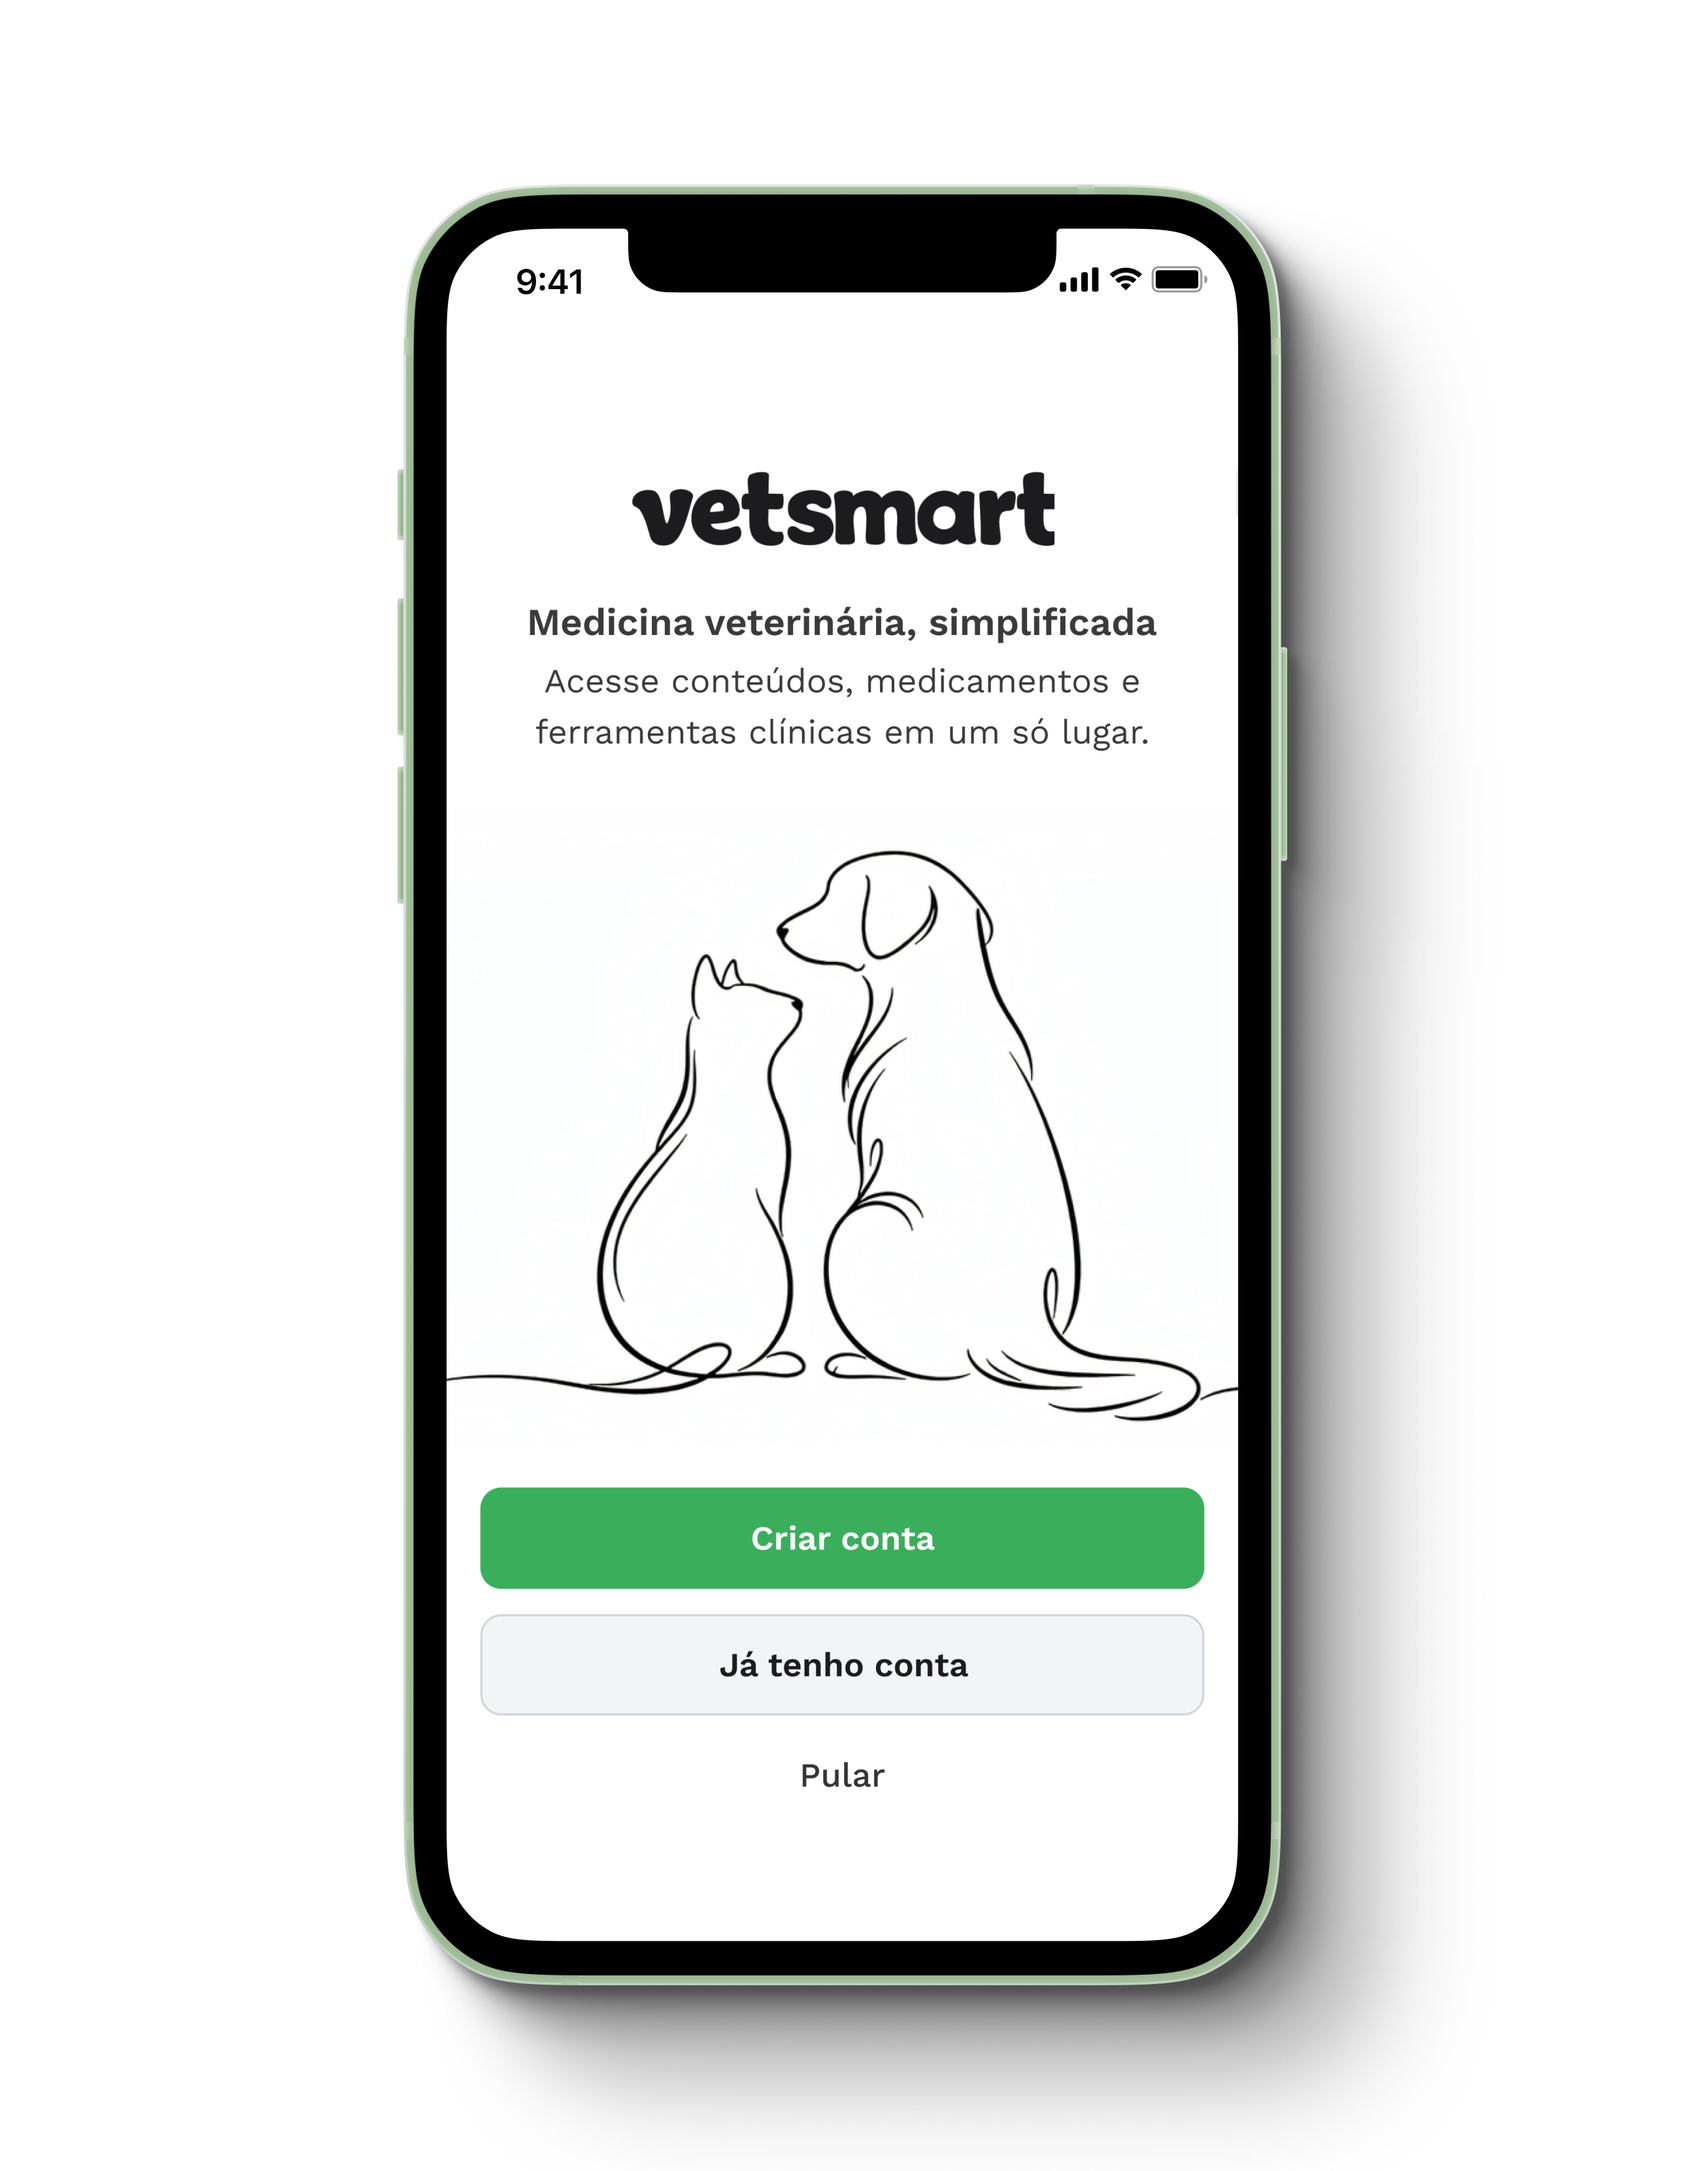
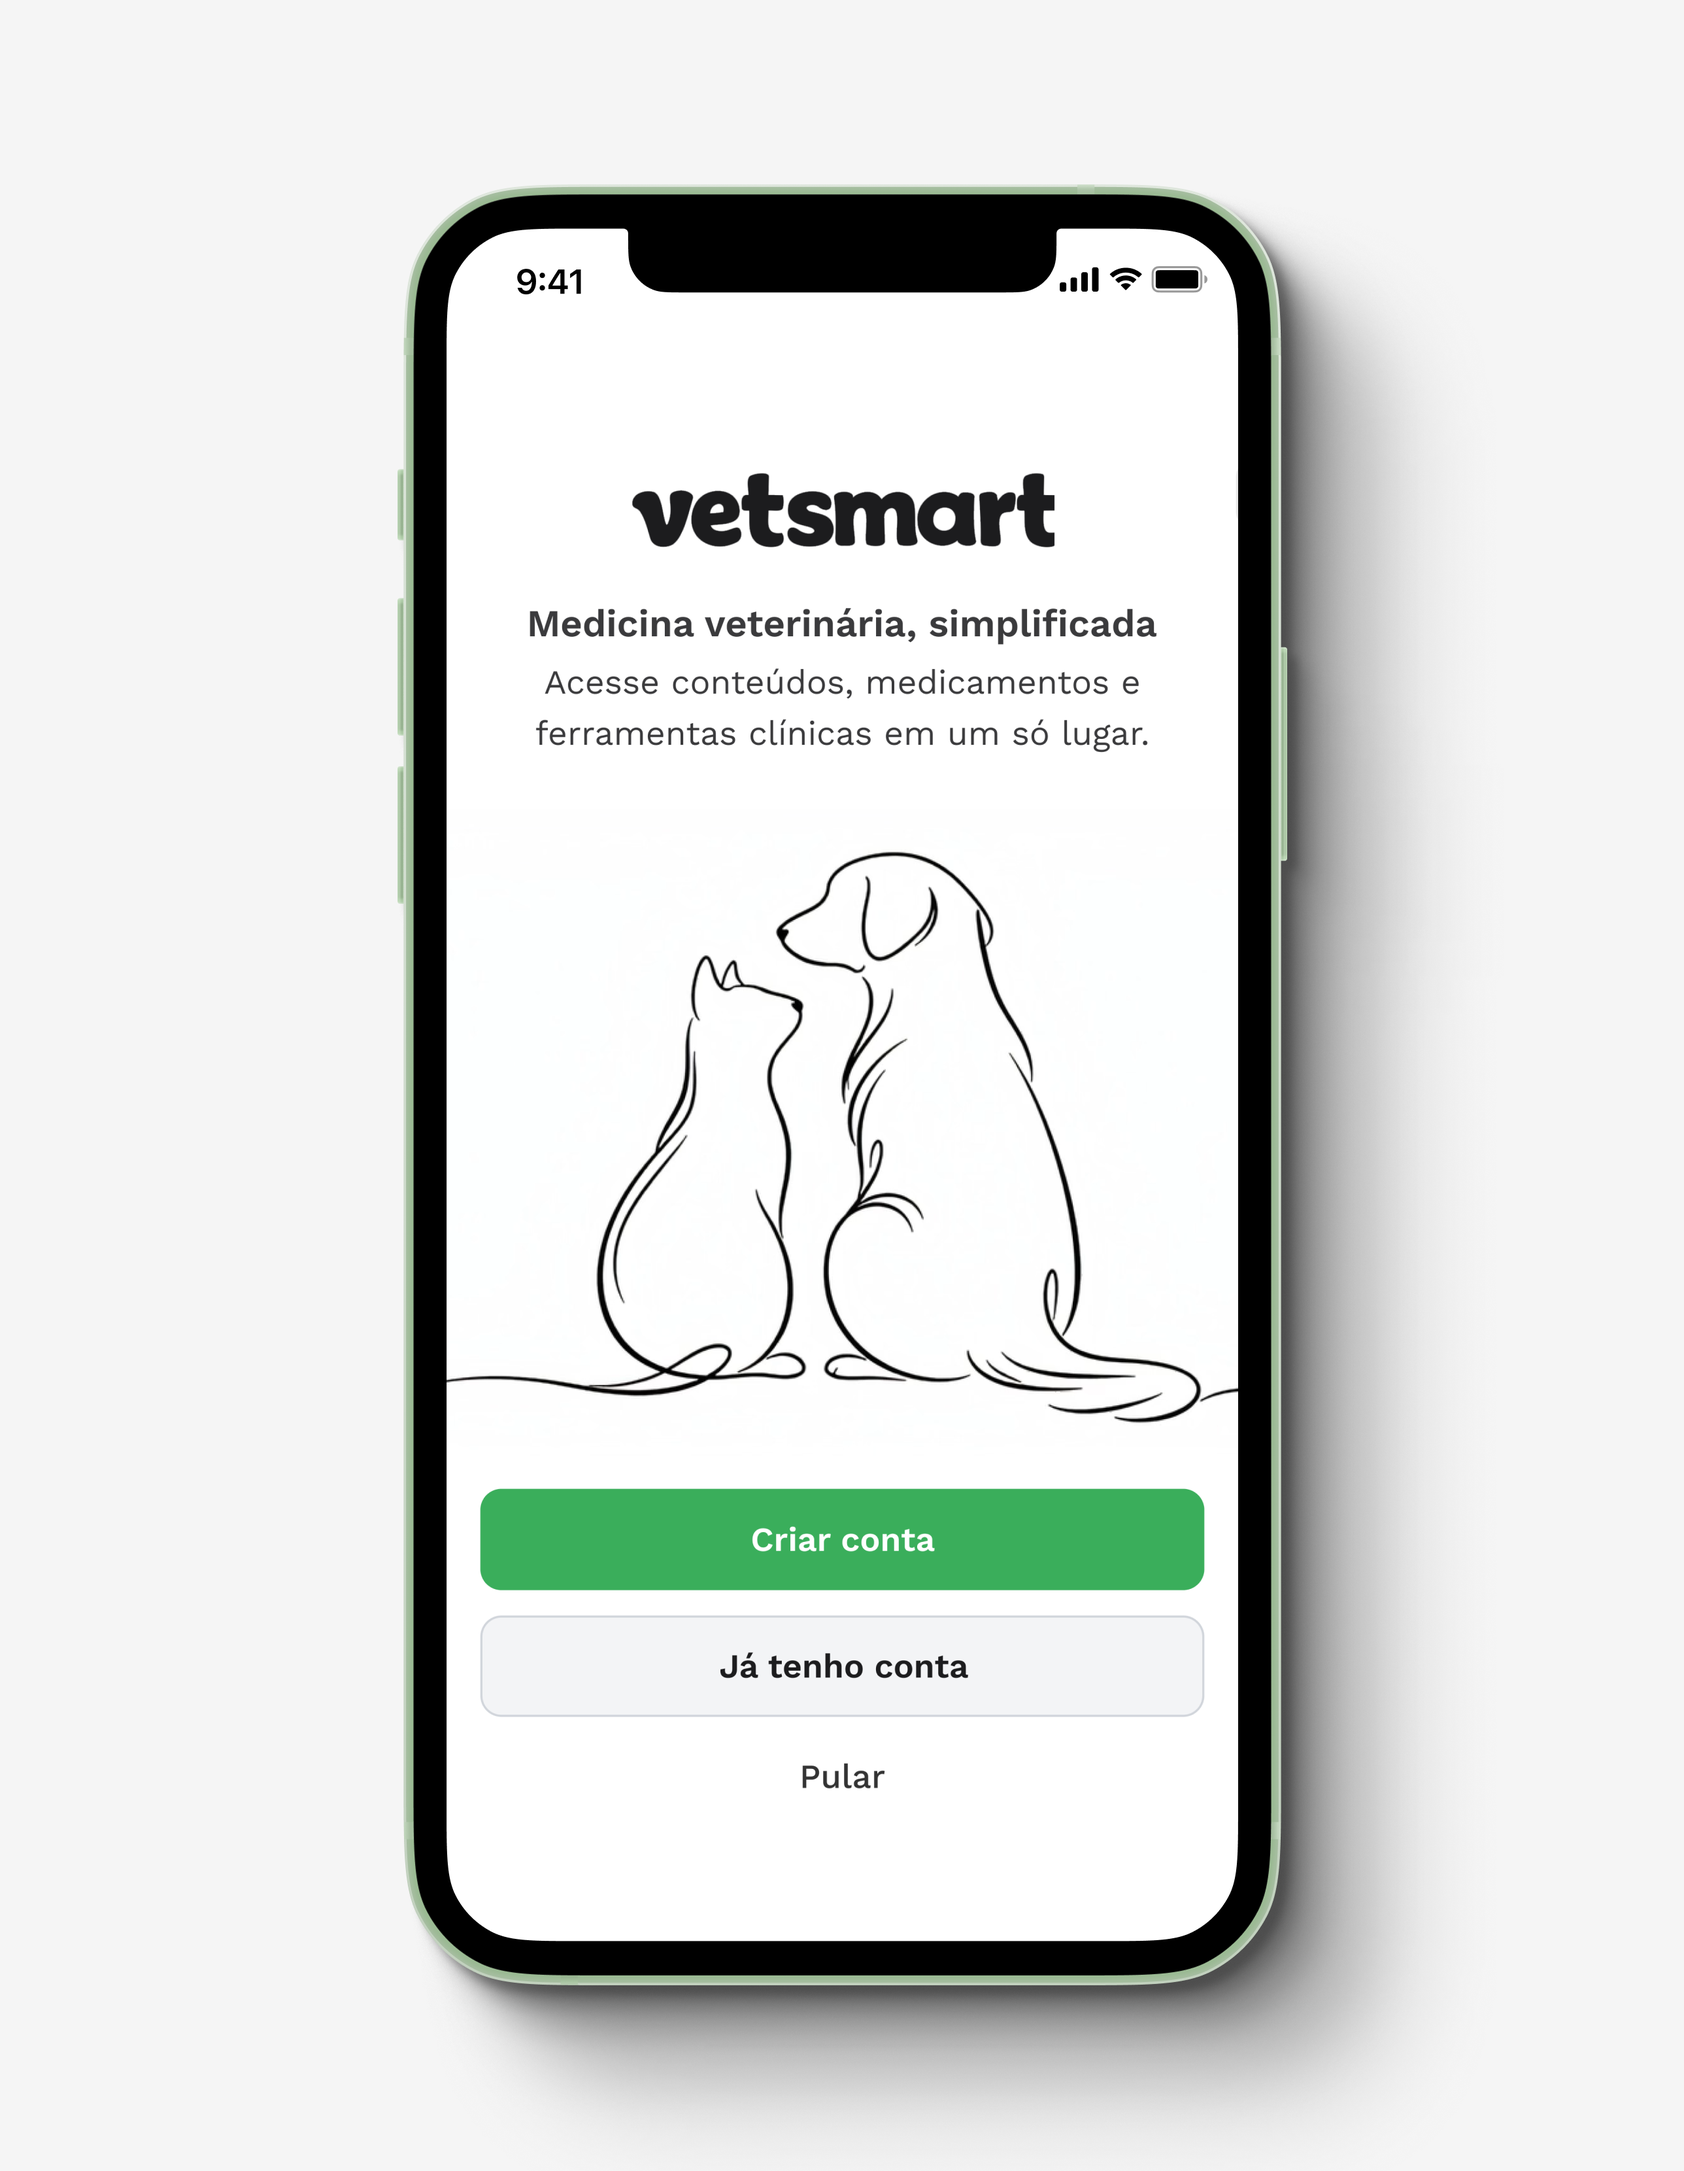
Say it in English the way the case actually reads
The English version still carried a few literal turns from the Portuguese.
"Consult" is the noun for a referral, not the appointment itself, so the vet
works "during an appointment". The dose is worked out "by hand" rather than
with a rule of three, which is not how the calculation is named in English.
Spelling follows the rest of the site: "math", not "maths".

The results graphic was the one piece still stuck in Portuguese on both
languages, because the slot serves a single file. It now carries the English
labels, with the thousands separator and the decimal point in their English
forms, and the active-user figure matching the 70,000 the body copy states.

The splash mockup was the only mobile plate sitting on pure white while every
other one sits on #F5F5F5, so it read as a brighter card than its neighbours.

Drops the rule above the results section: the heading already opens it, and
the line separated it from the alert motion it is the payoff for.

diff --git a/app/vet-smart/page.tsx b/app/vet-smart/page.tsx
@@ -213,7 +213,7 @@ const en: Content = {
     ],
   },
   pain: {
-    heading: "Before Vet Smart, there was a problem during the consult",
+    heading: "Before Vet Smart, there was a problem during the appointment",
     blocks: [
       { p: ["When it came to prescribing, the vet had nowhere to look up ", { h: "drug information", d: 0.2 }, " quickly and easily, such as dosages, indications and interactions."] },
       { p: ["More often than not, they fell back on ", { h: "books or a pile of PDFs", d: 0.4 }, ". Every package insert organized its content differently."] },
@@ -222,34 +222,34 @@ const en: Content = {
   solution: {
     heading: "Our answer was to bring that information into an app the vet could use during the appointment itself",
     blocks: [
-      { p: ["We arrived at that shape after a long discovery. We ran research, interviews and usability sessions, validating a range of hypotheses with vets."] },
+      { p: ["We arrived at that shape after a long discovery process. We ran research, interviews and usability sessions, validating a range of hypotheses with vets."] },
       { p: ["Package inserts presented everything as running text, so I organized the content into ", { h: "fixed sections", d: 0.4 }, " like doses, indications, formats and drug interactions, consistent across every product, ", { h: "more than 4,000 of them.", d: 0.6 }] },
       { p: ["Inside them, I broke the text into modules, a more visual and quicker way to take it in."] },
-      { p: ["", { h: "Search carried a lot of weight in the navigation", d: 0.8 }, ", because it was the most direct route to the drug, and during a consult the vet had no time to hunt around."] },
+      { p: ["", { h: "Search carried a lot of weight in the navigation", d: 0.8 }, ", because it was the most direct route to the drug, and during an appointment the vet had no time to hunt around."] },
     ],
   },
   evolution: {
-    heading: "We had more than 75,000 signed up, out of 130,000 vets in the country",
+    heading: "We had more than 75,000 sign-ups, out of 130,000 vets in the country",
     blocks: [
-      { p: ["The feedback was positive, ", { h: "4.75 on the stores", d: 0.2 }, ". On the business side, we worked with the biggest brands in the market, like Royal Canin, Purina and Zoetis."] },
+      { p: ["The feedback was positive, ", { h: "4.75 in the app stores", d: 0.2 }, ". On the business side, we worked with the biggest brands in the market, like Royal Canin, Purina and Zoetis."] },
     ],
   },
   frequencia: {
     heading: "Despite all of this looking good, when we looked at how people actually used the app we found a problem: they came back very rarely",
     blocks: [
-      { p: ["Of the 75,000 signed up, 35,000 were active. Each of them opened the app an average of ", { h: "five times a month.", d: 0.2 }] },
+      { p: ["Of those 75,000, 35,000 were active. Each of them opened the app an average of ", { h: "five times a month.", d: 0.2 }] },
       { p: ["That metric mattered because our business model depended mostly on advertising inside the app: around ", { h: "70% of our revenue came from selling ads", d: 0.4 }, "."] },
       { p: ["Low frequency meant fewer visits, fewer pageviews and, in turn, fewer ad impressions and less revenue."] },
       { p: ["Without that revenue, we could not grow as a company."] },
     ],
   },
   investigacao: {
-    heading: "With a startup's limited resources, I investigated as broadly as possible before narrowing to specifics",
+    heading: "With a startup's limited resources, I investigated as broadly as possible before narrowing down to specifics",
     blocks: [
       { p: ["I started with a ", { h: "quantitative survey", d: 0.2 }, ", emailed to our whole base. I asked in what situations they used Vet Smart, what kind of content they looked up and what they missed. A pattern came up very consistently: ", { h: "they wanted to keep up professionally", d: 0.4 }, ", with recent studies, protocols and real use cases."] },
       { p: ["Then I went deeper in interviews. Vets told me they relied on courses and in-person events, with fixed dates and a high cost that did not always fit the budget. And what was available was ", { h: "outdated and scattered.", d: 0.6 }] },
-      { p: ["I also looked at the market, veterinary and human health, here and abroad. Almost all of the content was the ", { h: "package insert copied and pasted", d: 0.8 }, ", with no structure behind it."] },
-      { p: ["Last, I looked at how the app was used, in the analytics. ", { h: "Half of all visits were to check a dose", d: 1.0 }, ". At first that looked like confirmation that the area already worked well. It did not look like a problem to explore."] },
+      { p: ["I also looked at the market, veterinary and human health, in Brazil and abroad. Almost all of the content was the ", { h: "package insert copied and pasted", d: 0.8 }, ", with no structure behind it."] },
+      { p: ["Finally, I looked at how the app was used, in the analytics. ", { h: "Half of all visits were to check a dose", d: 1.0 }, ". At first that looked like confirmation that the area already worked well. It did not look like a problem to explore."] },
     ],
   },
   hipotese: {
@@ -268,18 +268,18 @@ const en: Content = {
   esforco: {
     heading: "I had done exactly what they asked for in the surveys and the interviews. And it turned out not to be enough",
     blocks: [
-      { p: ["Even with positive feedback from vets about the content, usage frequency stayed exactly the same: ", { h: "five visits a month, per active user.", d: 0.2 }] },
+      { p: ["Even with positive feedback from vets about the content, usage frequency stayed exactly the same: ", { h: "five visits a month per active user.", d: 0.2 }] },
     ],
   },
   olhos: {
     heading: "So I decided to shadow vets during appointments, to understand more about how they worked day to day and whether there was an opportunity there",
     blocks: [
-      { p: ["One thing caught my attention right away. The vet had to ", { h: "work the drug's dose out from the animal's weight", d: 0.2 }, ", often with a rule of three to convert mg into ml. And they repeated that calculation several times a day."] },
+      { p: ["One thing caught my attention right away. The vet had to ", { h: "work the drug's dose out from the animal's weight", d: 0.2 }, ", by hand. And they repeated that calculation several times a day."] },
       { p: ["Our app already showed the recommended dose, but we did not do that calculation. It was ", { h: "a real pain, and so automatic that no vet had ever raised it.", d: 0.4 }] },
     ],
   },
   calc: {
-    heading: "What if we built a calculator that did the maths for the vet?",
+    heading: "What if we built a calculator that did the math for the vet?",
     blocks: [
       { p: ["The idea was to cut the effort to the bare minimum: they typed the weight, ", { h: "without pressing anything", d: 0.2 }, ", and the dose appeared right there, in mg and ml."] },
     ],
@@ -297,7 +297,7 @@ const en: Content = {
     blocks: [
       {
         ul: [
-          ["Usage frequency: ", { h: "from 5 to 28 visits a month", d: 0.2 }, ", per active user"],
+          ["Usage frequency: ", { h: "from 5 to 28 visits a month", d: 0.2 }, " per active user"],
           ["Active users: ", { h: "from 35,000 to 70,000", d: 0.4 }],
           ["Use of the dosage area: ", { h: "from 50% to 80% of the total", d: 0.6 }],
           [{ h: "2.5 million pageviews a month", d: 0.8 }],
@@ -310,8 +310,8 @@ const en: Content = {
   licao: {
     heading: "The biggest lesson was that a metric that already looked good was hiding the biggest opportunity",
     blocks: [
-      { p: ["The 50% of visits going to dosage were numbers from a feature that already worked well. But there was ", { h: "a pain not even the vets themselves were able to name", d: 0.2 }, ", and it only showed up by watching the day to day."] },
-      { p: ["In the end, half of Brazil's small-animal vets became active users, and Vet Smart made it into these professionals' routine. That caught Petlove's attention. They wanted into the sector, and ", { h: "ended up buying our company.", d: 0.4 }] },
+      { p: ["That 50% of visits going to dosage was data from a feature that already worked well. But there was ", { h: "a pain not even the vets themselves were able to name", d: 0.2 }, ", and it only showed up by watching the day to day."] },
+      { p: ["In the end, half of Brazil's small-animal vets became active users, and Vet Smart became part of their routine. That caught Petlove's attention. They wanted to move into the sector, and ", { h: "ended up buying our company.", d: 0.4 }] },
     ],
   },
   back: "Back",
@@ -496,8 +496,6 @@ export default function VetSmart() {
             <VideoNaTela src="/vet-smart/alertas-motion.mp4" estatico="/vet-smart/alertas-poster.jpg" alt="Vet Smart estados de alerta da calculadora" />
           </div>
         </div>
-
-        <Divider />
 
         {/* Resultado */}
         <TwoCol heading={c.results.heading}>
